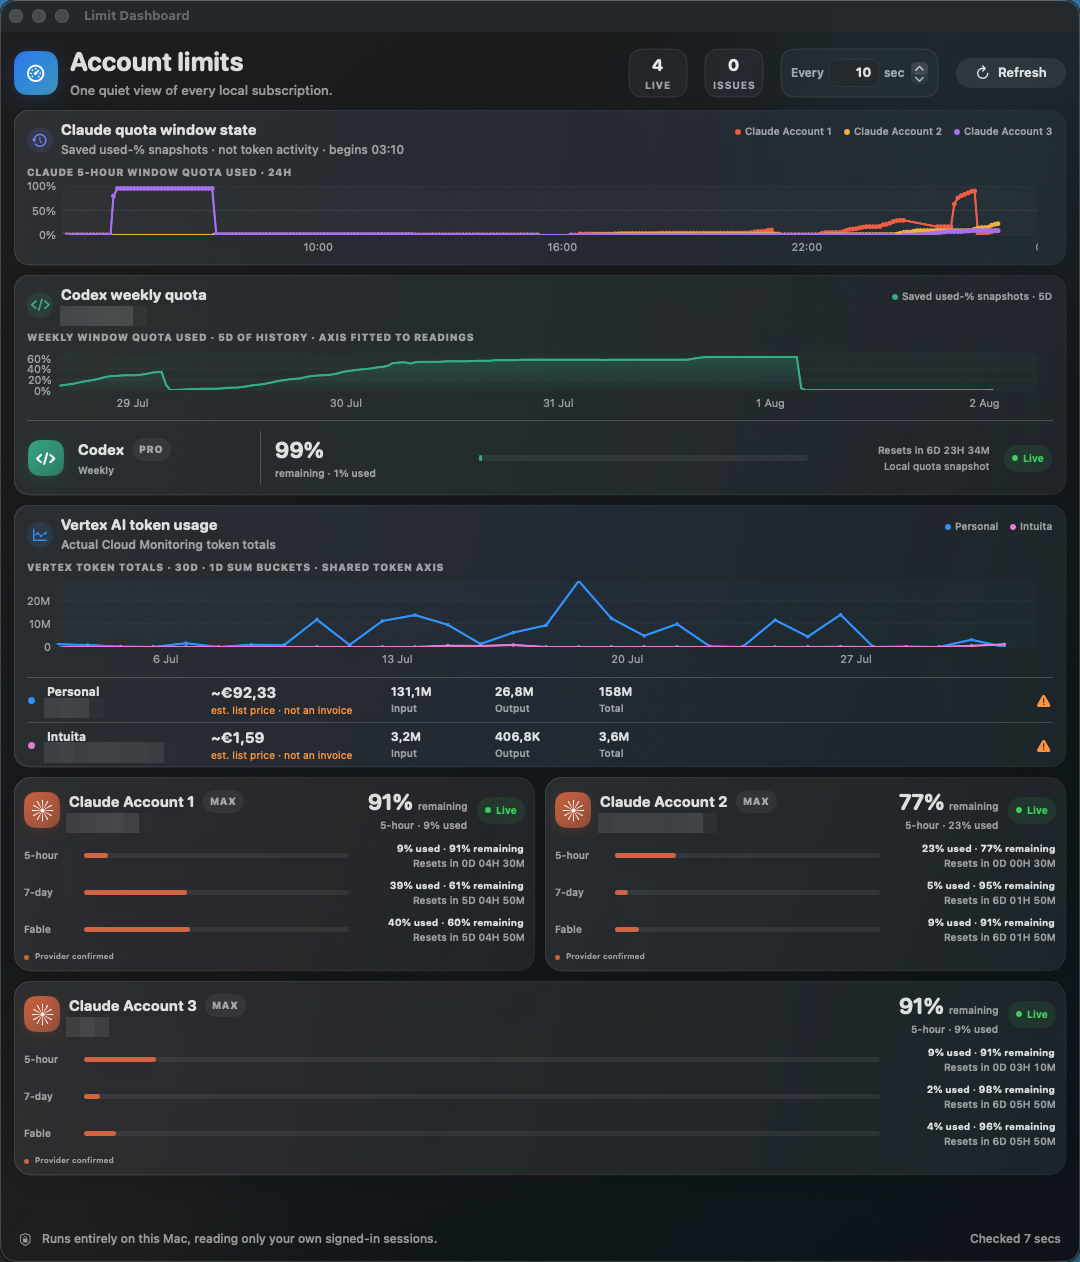
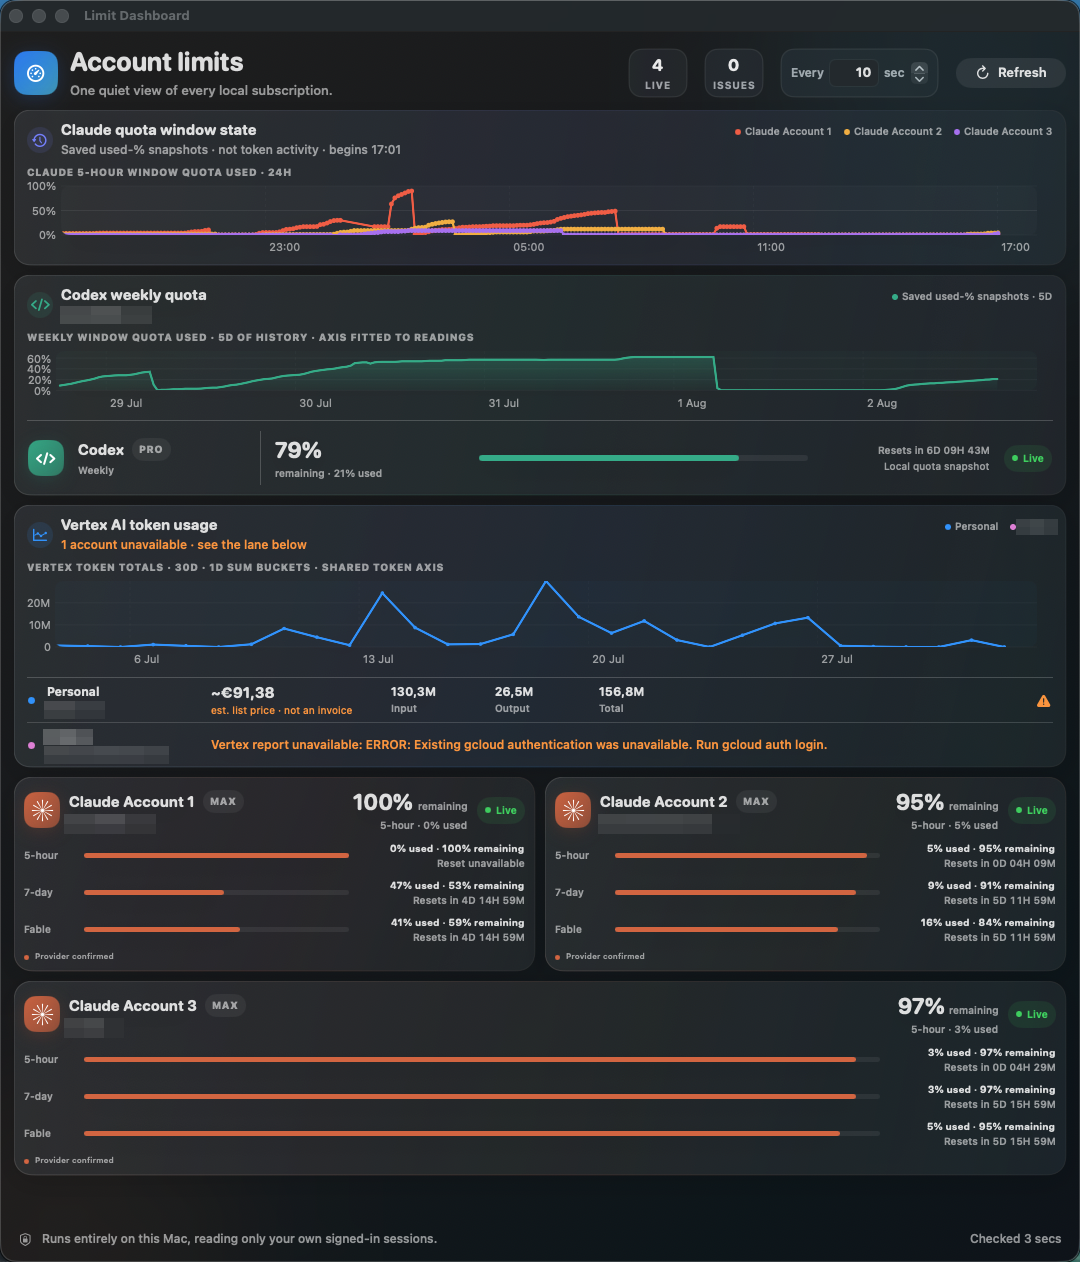
Draw quota bars as remaining, not used
A quota reads like a tank: full when the window is fresh, emptier as it is
spent. The bars filled by used-% instead, so the account with the most
headroom showed the emptiest bar and a nearly exhausted window looked full.

All five bars (Codex card, compact limit and Fable rows, expanded limit and
Fable rows) now take their width from remainingPercent. The numeric labels
already led with Remaining, so the fill and the headline now agree.

diff --git a/Sources/LimitDashboard/DashboardView.swift b/Sources/LimitDashboard/DashboardView.swift
@@ -1146,7 +1146,7 @@ private struct CodexPanel: View, Equatable {
                             .fill(accent)
                             .frame(
                                 width: proxy.size.width
-                                    * window.normalizedUsedPercent / 100
+                                    * window.remainingPercent / 100
                             )
                     }
                 }
@@ -1634,7 +1634,7 @@ private struct CompactLimitRow: View {
                         .fill(accent)
                         .frame(
                             width: proxy.size.width
-                                * window.normalizedUsedPercent / 100
+                                * window.remainingPercent / 100
                         )
                 }
             }
@@ -1711,7 +1711,7 @@ private struct CompactFableRow: View {
                             .fill(accent)
                             .frame(
                                 width: proxy.size.width
-                                    * window.normalizedUsedPercent / 100
+                                    * window.remainingPercent / 100
                             )
                     }
                 }
@@ -1791,7 +1791,7 @@ private struct LimitRow: View {
                                 endPoint: .trailing
                             )
                         )
-                        .frame(width: proxy.size.width * window.normalizedUsedPercent / 100)
+                        .frame(width: proxy.size.width * window.remainingPercent / 100)
                 }
             }
             .frame(height: 7)
@@ -1831,7 +1831,7 @@ private struct FableUsageRow: View {
                                     endPoint: .trailing
                                 )
                             )
-                            .frame(width: proxy.size.width * window.normalizedUsedPercent / 100)
+                            .frame(width: proxy.size.width * window.remainingPercent / 100)
                     }
                 }
                 .frame(height: 7)

diff --git a/Sources/LimitDashboard/Models.swift b/Sources/LimitDashboard/Models.swift
@@ -93,6 +93,11 @@ struct UsageWindow: Identifiable, Hashable, Sendable {
         max(0, min(100, usedPercent))
     }
 
+    /// What is still available in the window. Every bar in the dashboard is
+    /// drawn from this, not from the used share: a quota reads like a tank, so
+    /// the bar starts full on a fresh window and drains towards empty as it is
+    /// spent. Filling by used-% would have shown an empty bar for the state
+    /// with the most headroom.
     var remainingPercent: Double {
         100 - normalizedUsedPercent
     }

diff --git a/README.md b/README.md
@@ -252,8 +252,9 @@ in local cache**.
 
 Each card's large headline is **Remaining**, consistently for Claude and Codex.
 Every quota row also labels the provider's raw `utilization`/`percent` as
-**Used** and calculates **Remaining** separately. Progress bars represent Used,
-matching the provider's field.
+**Used** and calculates **Remaining** separately. Progress bars represent
+**Remaining**: a bar is full on a fresh window and drains towards empty as the
+quota is spent, so the amount of colour always reads as headroom left.
 
 Anthropic documents Fable as a model-specific allowance drawn from weekly plan
 usage:
